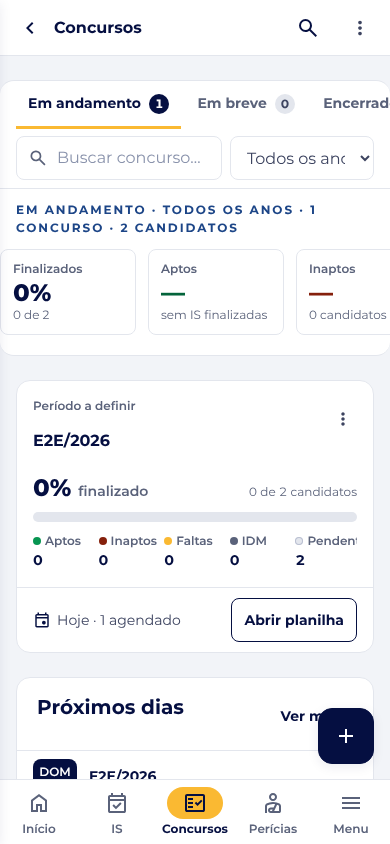
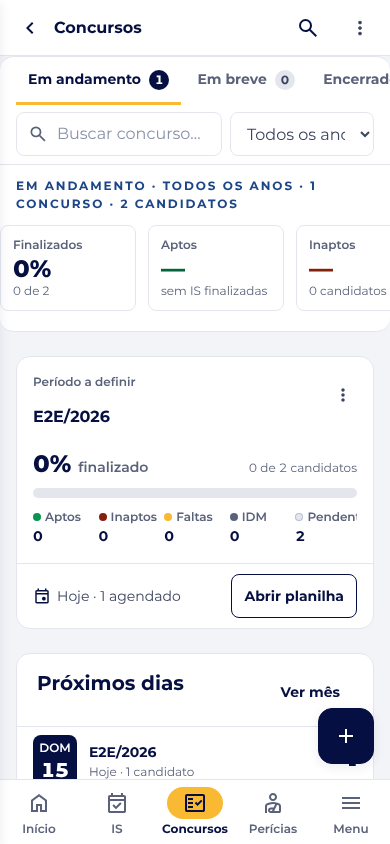
Celular: abas contíguas à topbar (sem o gap do cabeçalho vazio)
O PageHeader sem conteúdo visível no celular passa a display:none (o FAB e o portal das ações ficam fora dele); Inspeções, Concursos e Perícia Menor usam flex/gap em vez de space-y, que contava o cabeçalho oculto como primeiro filho e empurrava as abas em 16 px.

Claude-Session: https://claude.ai/code/session_01RnQisFLD3iU9kqbELD1jCN

diff --git a/components/ui/Page.tsx b/components/ui/Page.tsx
@@ -83,8 +83,9 @@ export const PageHeader: React.FC<PageHeaderProps> = ({ title, tituloTopbar, eye
   useEffect(() => { setSlot(document.getElementById(TOPBAR_ACOES_ID)); }, []);
   // No celular, sem sobrelinha nem descrição visível, o cabeçalho não ocupa espaço: o conteúdo cola na topbar.
   const vazioNoCelular = tituloNaTopbar && !eyebrow && !(temDescricao && descricaoNoCelular);
-  return (
-    <div className={`flex flex-col md:flex-row md:items-start md:justify-between gap-3 ${vazioNoCelular ? 'mb-0 md:mb-6' : 'mb-6'} ${className}`}>
+  return (<>
+    {/* No celular, o cabeçalho vazio some de vez (display:none): assim não conta no gap/space-y de quem o contém. */}
+    <div className={`${vazioNoCelular ? 'hidden md:flex' : 'flex'} flex-col md:flex-row md:items-start md:justify-between gap-3 mb-6 ${className}`}>
       <div className="min-w-0">
         {eyebrow && <p className="eyebrow mb-1">{eyebrow}</p>}
         <h1 className={`${tituloNaTopbar ? 'hidden md:block ' : ''}text-h1 font-extrabold text-navy leading-tight`}>{title}</h1>
@@ -104,11 +105,11 @@ export const PageHeader: React.FC<PageHeaderProps> = ({ title, tituloTopbar, eye
           )}
         </div>
       )}
-      {/* Celular: as mesmas ações na topbar (o slot só existe/aparece abaixo de md). */}
-      {actions && tituloNaTopbar && slot && createPortal(<div className="flex items-center gap-1">{actions}</div>, slot)}
-      {fab && <FabPagina fab={fab} />}
     </div>
-  );
+    {/* Celular: as mesmas ações na topbar (o slot só existe/aparece abaixo de md). */}
+    {actions && tituloNaTopbar && slot && createPortal(<div className="flex items-center gap-1">{actions}</div>, slot)}
+    {fab && <FabPagina fab={fab} />}
+  </>);
 };
 
 interface PageProps extends PageHeaderProps {

diff --git a/components/Inspecoes.tsx b/components/Inspecoes.tsx
@@ -577,7 +577,7 @@ export const Inspecoes: React.FC = () => {
   return (
     <div className="flex flex-col flex-1">
       <Toast message={toast?.msg ?? null} tone={toast?.tone} />
-      <Container size="data" className={`pt-0 md:pt-8 ${podeCadastrar || podeBloquear ? 'pb-28 md:pb-10' : 'pb-10'} space-y-4`}>
+      <Container size="data" className={`pt-0 md:pt-8 ${podeCadastrar || podeBloquear ? 'pb-28 md:pb-10' : 'pb-10'} flex flex-col gap-4`}>
         <PageHeader
           title="Inspeções de Saúde"
           description="Cadastro, agenda e prazos das IS (exceto concursos)."

diff --git a/components/concursos/ConcursosLista.tsx b/components/concursos/ConcursosLista.tsx
@@ -516,7 +516,7 @@ export const ConcursosLista: React.FC<ConcursosListaProps> = ({ concursos, loadi
         />
       )}
 
-      <Container size="data" className={`pt-0 md:pt-8 space-y-6 ${podeRegistrarMensagem ? 'pb-28 md:pb-10' : 'pb-10'}`}>
+      <Container size="data" className={`pt-0 md:pt-8 flex flex-col gap-6 ${podeRegistrarMensagem ? 'pb-28 md:pb-10' : 'pb-10'}`}>
         <PageHeader
           title="Concursos"
           description="Planilhas de controle dos candidatos de cada concurso."

diff --git a/components/PericiaMenor.tsx b/components/PericiaMenor.tsx
@@ -262,7 +262,7 @@ export const PericiaMenor: React.FC = () => {
   return (
     <div className="flex flex-col flex-1">
       <Toast message={toast?.msg ?? null} tone={toast?.tone} />
-      <Container size="data" className="pt-0 md:pt-8 pb-10 space-y-4">
+      <Container size="data" className="pt-0 md:pt-8 pb-10 flex flex-col gap-4">
         <PageHeader
           title={t.pagina}
           description={descricao}
